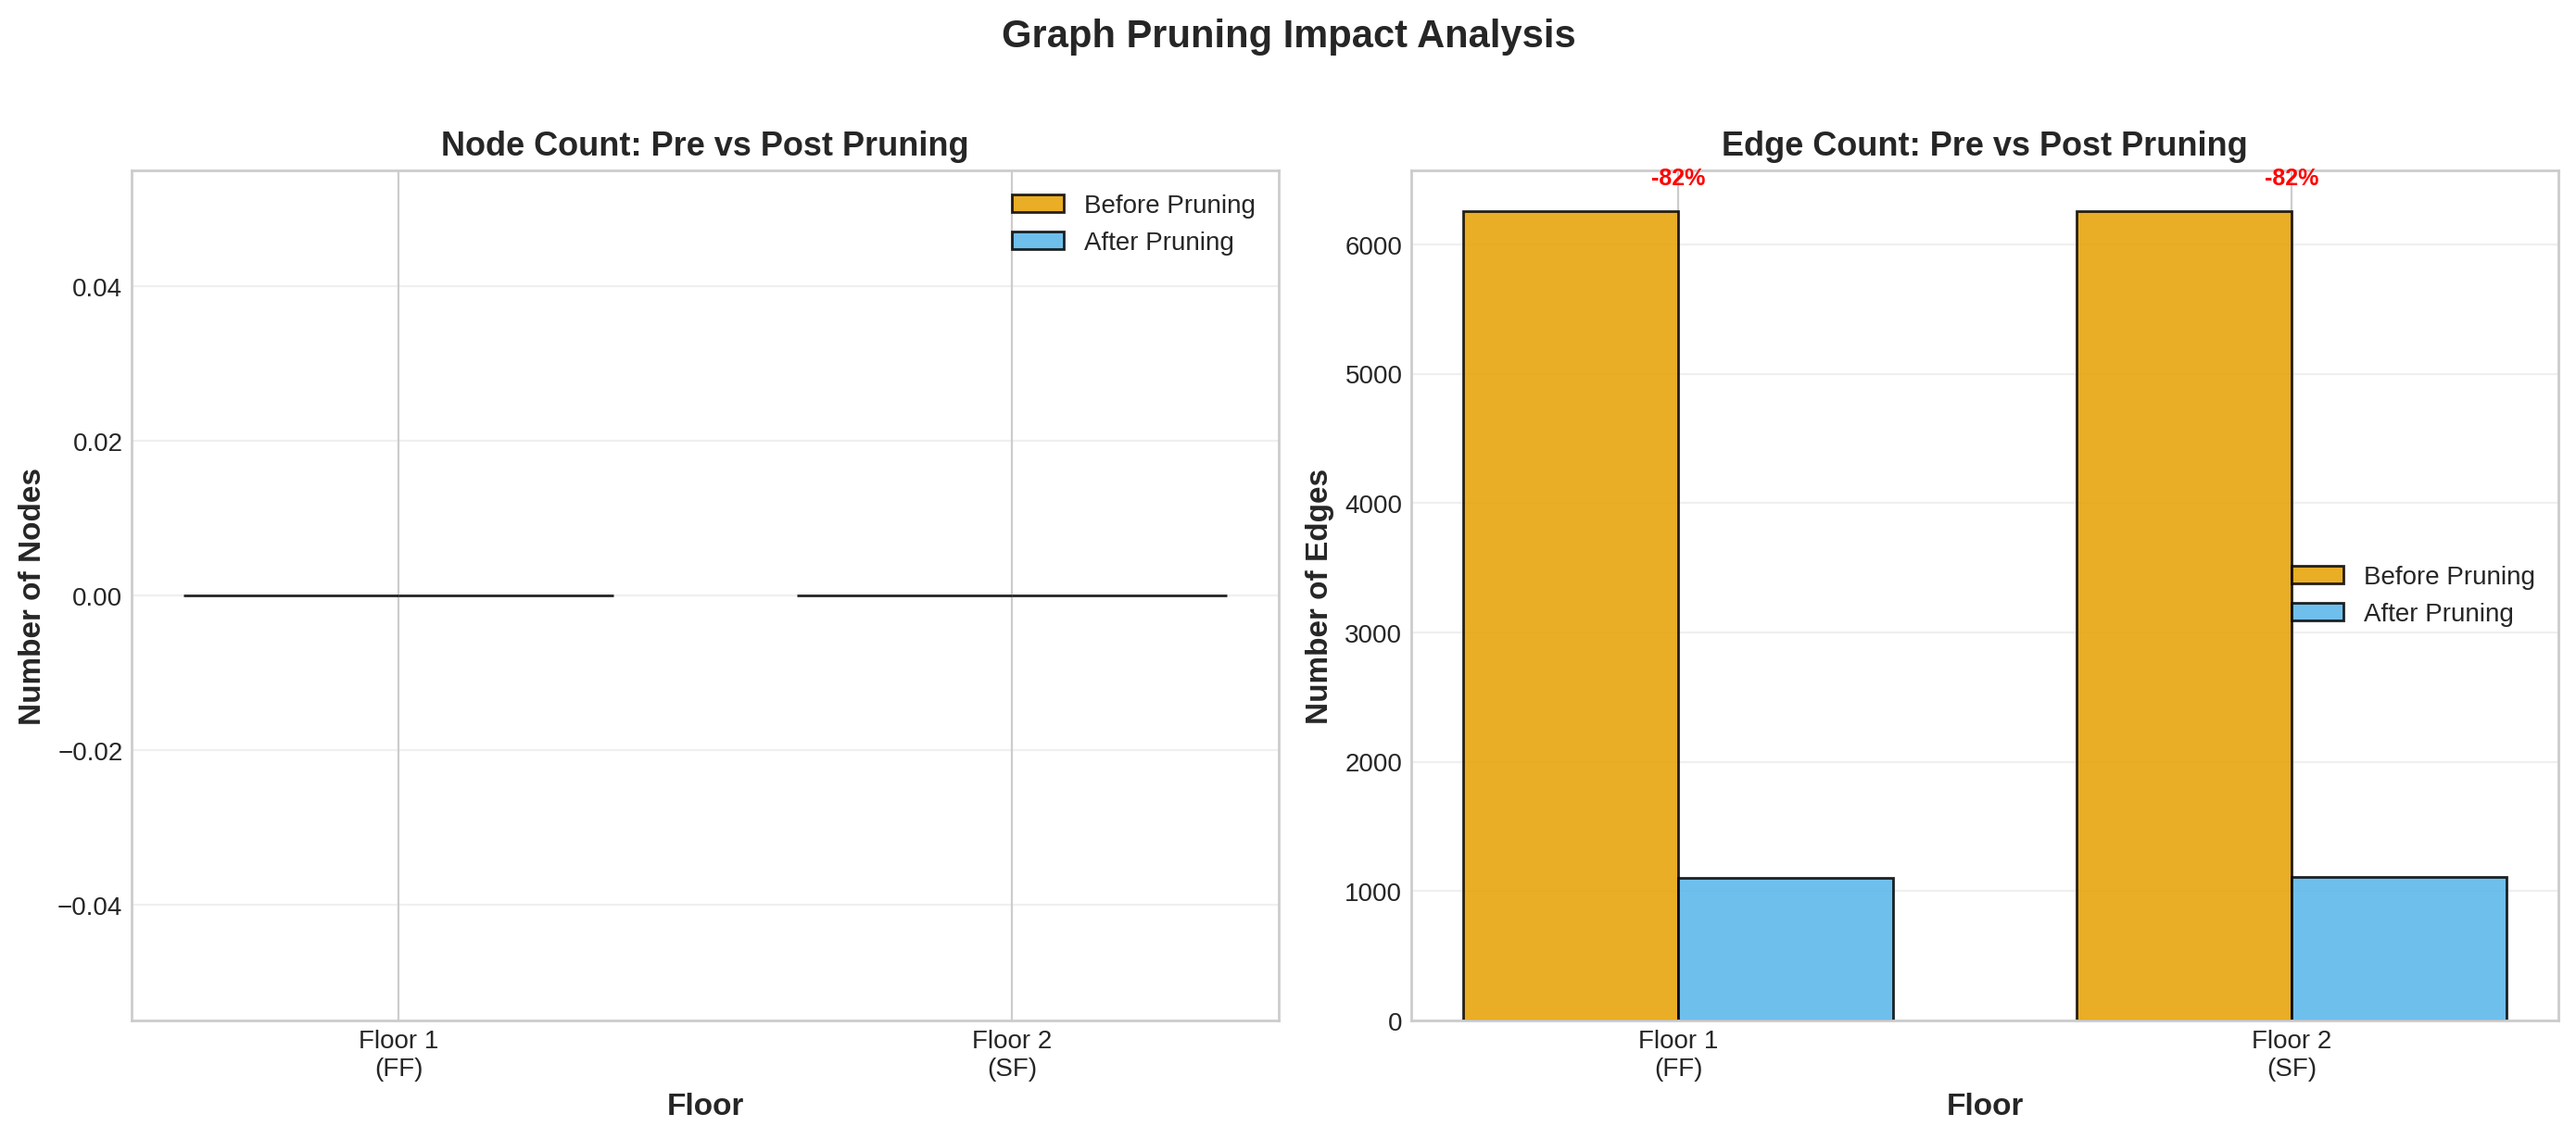
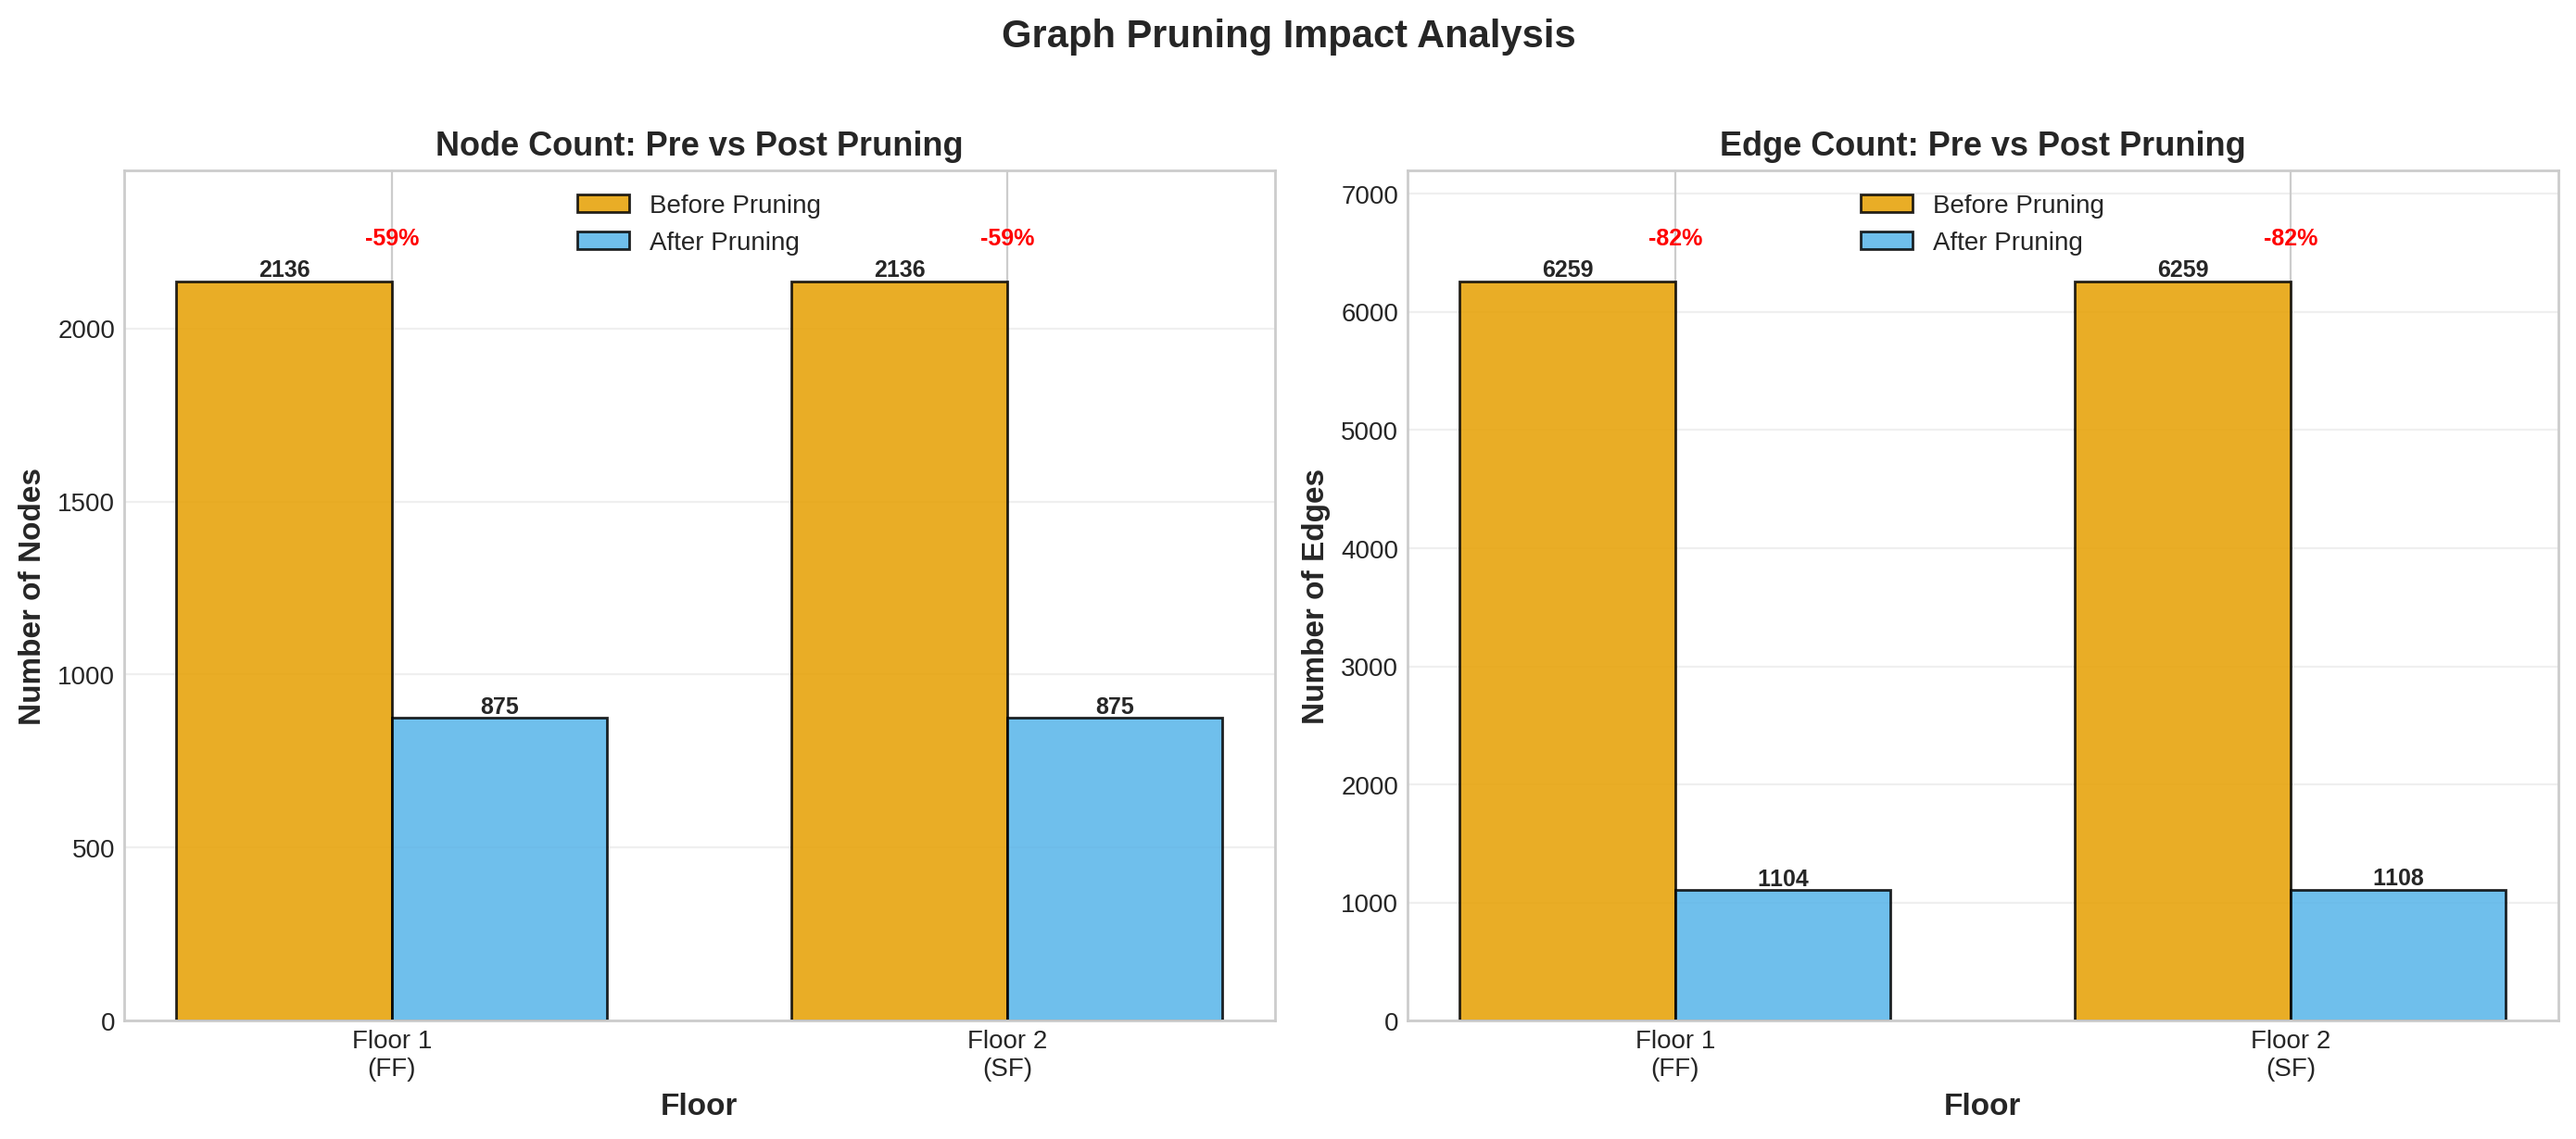
fix: Fix pruning comparison plot - node counts now visible
Issue: The parse_timer_file function only parsed lines with 'seconds',
missing node count lines like 'Total graph nodes (before pruning): 2136'

Fix:
- Updated parse_timer_file to parse ALL numeric values, not just timing
- Added fallback to load node/edge counts directly from JSON files
- Added value labels on bars for better visibility
- Added explicit y-axis limits to ensure bars are visible
- Added debug output to track data extraction

Result:
- pre_nodes: [2136, 2136] ✓
- post_nodes: [875, 875] ✓
- pre_edges: [6259, 6259] ✓
- post_edges: [1104, 1108] ✓

Bars are now visible with proper labels and reduction percentages.

diff --git a/MultiFloor.py b/MultiFloor.py
@@ -461,15 +461,36 @@ def parse_timer_file(timer_path):
     with open(timer_path, 'r') as f:
         for line in f:
             line = line.strip()
-            if ':' in line and 'seconds' in line.lower():
-                parts = line.split(':')
+            if not line or '=' in line:  # Skip separator lines
+                continue
+            
+            if ':' in line:
+                parts = line.split(':', 1)  # Split only on first colon
                 if len(parts) >= 2:
                     key = parts[0].strip()
-                    value_str = parts[1].strip().replace('seconds', '').strip()
-                    try:
-                        timing[key] = float(value_str)
-                    except ValueError:
-                        pass
+                    value_str = parts[1].strip()
+                    
+                    # Handle timing values (with "seconds")
+                    if 'seconds' in value_str.lower():
+                        try:
+                            timing[key] = float(value_str.replace('seconds', '').strip())
+                        except ValueError:
+                            pass
+                    # Handle node counts and other numeric values
+                    else:
+                        try:
+                            # Extract first number found
+                            import re
+                            match = re.search(r'(\d+(?:\.\d+)?)', value_str)
+                            if match:
+                                val = match.group(1)
+                                # Try int first, then float
+                                try:
+                                    timing[key] = int(val)
+                                except ValueError:
+                                    timing[key] = float(val)
+                        except:
+                            pass
     
     return timing
 
@@ -1323,39 +1344,88 @@ def plot_pre_post_pruning_comparison(graph_info, floor_image_map, output_path):
         info = graph_info.get(img, {})
         timer = info.get('timer', {})
         
+        # Debug: Check what we have
+        if not timer:
+            print(f"  ⚠ Warning: No timer data for {img}")
+        
+        # Try multiple key variations
+        pre_val = 0
+        post_val = 0
+        
+        # Check for node counts in timer
         if 'Total graph nodes (before pruning)' in timer:
-            pre_nodes.append(timer['Total graph nodes (before pruning)'])
-        else:
-            pre_nodes.append(0)
+            pre_val = timer['Total graph nodes (before pruning)']
+        elif 'Total graph nodes (before pruning)' in str(timer):
+            # Try to extract from string representation
+            import re
+            match = re.search(r'Total graph nodes \(before pruning\)[:\s]+(\d+)', str(timer))
+            if match:
+                pre_val = int(match.group(1))
         
         if 'Total graph nodes (after pruning)' in timer:
-            post_nodes.append(timer['Total graph nodes (after pruning)'])
-        else:
-            post_nodes.append(0)
+            post_val = timer['Total graph nodes (after pruning)']
+        elif 'Total graph nodes (after pruning)' in str(timer):
+            import re
+            match = re.search(r'Total graph nodes \(after pruning\)[:\s]+(\d+)', str(timer))
+            if match:
+                post_val = int(match.group(1))
+        
+        # If still zero, try loading from JSON files directly
+        if pre_val == 0 or post_val == 0:
+            paths = info.get('paths', {})
+            if paths.get('pre_pruning') and os.path.exists(paths['pre_pruning']):
+                try:
+                    with open(paths['pre_pruning']) as f:
+                        data = json.load(f)
+                    if pre_val == 0:
+                        pre_val = len(data.get('nodes', []))
+                except:
+                    pass
+            
+            if paths.get('post_pruning') and os.path.exists(paths['post_pruning']):
+                try:
+                    with open(paths['post_pruning']) as f:
+                        data = json.load(f)
+                    if post_val == 0:
+                        post_val = len(data.get('nodes', []))
+                except:
+                    pass
+        
+        pre_nodes.append(pre_val)
+        post_nodes.append(post_val)
         
         # Load pre/post graphs to get edge counts
         paths = info.get('paths', {})
-        if paths.get('pre_pruning'):
+        pre_edge_count = 0
+        post_edge_count = 0
+        
+        if paths.get('pre_pruning') and os.path.exists(paths['pre_pruning']):
             try:
                 with open(paths['pre_pruning']) as f:
                     data = json.load(f)
-                pre_edges.append(len(data.get('edges', [])))
-            except:
-                pre_edges.append(0)
-        else:
-            pre_edges.append(0)
+                pre_edge_count = len(data.get('edges', []))
+            except Exception as e:
+                print(f"  ⚠ Warning: Could not load pre_pruning edges for {img}: {e}")
         
-        if paths.get('post_pruning'):
+        if paths.get('post_pruning') and os.path.exists(paths['post_pruning']):
             try:
                 with open(paths['post_pruning']) as f:
                     data = json.load(f)
-                post_edges.append(len(data.get('edges', [])))
-            except:
-                post_edges.append(0)
-        else:
-            post_edges.append(0)
+                post_edge_count = len(data.get('edges', []))
+            except Exception as e:
+                print(f"  ⚠ Warning: Could not load post_pruning edges for {img}: {e}")
+        
+        pre_edges.append(pre_edge_count)
+        post_edges.append(post_edge_count)
         
         floor_labels.append(f'Floor {floor_num}\n({get_floor_display_name(floor_num)})')
+    
+    # Debug output
+    print(f"  Pruning comparison data:")
+    print(f"    pre_nodes: {pre_nodes}")
+    print(f"    post_nodes: {post_nodes}")
+    print(f"    pre_edges: {pre_edges}")
+    print(f"    post_edges: {post_edges}")
     
     # Create figure with 2 subplots
     fig, (ax1, ax2) = plt.subplots(1, 2, figsize=(14, 6))
@@ -1364,10 +1434,23 @@ def plot_pre_post_pruning_comparison(graph_info, floor_image_map, output_path):
     width = 0.35
     
     # Nodes comparison
-    bars1 = ax1.bar(x - width/2, pre_nodes, width, label='Before Pruning', 
-                    color=ACADEMIC_COLORS['floor_1'], alpha=0.85, edgecolor='black')
-    bars2 = ax1.bar(x + width/2, post_nodes, width, label='After Pruning',
-                    color=ACADEMIC_COLORS['floor_2'], alpha=0.85, edgecolor='black')
+    if not pre_nodes or all(v == 0 for v in pre_nodes):
+        print(f"  ⚠ Warning: All pre_nodes are zero, cannot plot node comparison")
+        ax1.text(0.5, 0.5, 'No node data available', ha='center', va='center', 
+                transform=ax1.transAxes, fontsize=14)
+    else:
+        bars1 = ax1.bar(x - width/2, pre_nodes, width, label='Before Pruning', 
+                        color=ACADEMIC_COLORS['floor_1'], alpha=0.85, edgecolor='black', linewidth=1)
+        bars2 = ax1.bar(x + width/2, post_nodes, width, label='After Pruning',
+                        color=ACADEMIC_COLORS['floor_2'], alpha=0.85, edgecolor='black', linewidth=1)
+        
+        # Add value labels on bars
+        for bars in [bars1, bars2]:
+            for bar in bars:
+                height = bar.get_height()
+                if height > 0:
+                    ax1.text(bar.get_x() + bar.get_width()/2, height,
+                            f'{int(height)}', ha='center', va='bottom', fontsize=9, fontweight='bold')
     
     ax1.set_xlabel('Floor', fontsize=12, fontweight='bold')
     ax1.set_ylabel('Number of Nodes', fontsize=12, fontweight='bold')
@@ -1377,18 +1460,37 @@ def plot_pre_post_pruning_comparison(graph_info, floor_image_map, output_path):
     ax1.legend(fontsize=10)
     ax1.grid(axis='y', alpha=0.3)
     
+    # Set y-axis to show all data
+    if pre_nodes or post_nodes:
+        max_val = max(max(pre_nodes) if pre_nodes else 0, max(post_nodes) if post_nodes else 0)
+        ax1.set_ylim(0, max_val * 1.15)
+    
     # Add reduction percentage
     for i, (pre, post) in enumerate(zip(pre_nodes, post_nodes)):
         if pre > 0:
             reduction = (pre - post) / pre * 100
-            ax1.text(i, max(pre, post) + 50, f'-{reduction:.0f}%', 
+            max_height = max(pre, post)
+            ax1.text(i, max_height + max_height * 0.05, f'-{reduction:.0f}%', 
                     ha='center', fontsize=9, color='red', fontweight='bold')
     
     # Edges comparison
-    bars3 = ax2.bar(x - width/2, pre_edges, width, label='Before Pruning',
-                    color=ACADEMIC_COLORS['floor_1'], alpha=0.85, edgecolor='black')
-    bars4 = ax2.bar(x + width/2, post_edges, width, label='After Pruning',
-                    color=ACADEMIC_COLORS['floor_2'], alpha=0.85, edgecolor='black')
+    if not pre_edges or all(v == 0 for v in pre_edges):
+        print(f"  ⚠ Warning: All pre_edges are zero, cannot plot edge comparison")
+        ax2.text(0.5, 0.5, 'No edge data available', ha='center', va='center', 
+                transform=ax2.transAxes, fontsize=14)
+    else:
+        bars3 = ax2.bar(x - width/2, pre_edges, width, label='Before Pruning',
+                        color=ACADEMIC_COLORS['floor_1'], alpha=0.85, edgecolor='black', linewidth=1)
+        bars4 = ax2.bar(x + width/2, post_edges, width, label='After Pruning',
+                        color=ACADEMIC_COLORS['floor_2'], alpha=0.85, edgecolor='black', linewidth=1)
+        
+        # Add value labels on bars
+        for bars in [bars3, bars4]:
+            for bar in bars:
+                height = bar.get_height()
+                if height > 0:
+                    ax2.text(bar.get_x() + bar.get_width()/2, height,
+                            f'{int(height)}', ha='center', va='bottom', fontsize=9, fontweight='bold')
     
     ax2.set_xlabel('Floor', fontsize=12, fontweight='bold')
     ax2.set_ylabel('Number of Edges', fontsize=12, fontweight='bold')
@@ -1398,11 +1500,17 @@ def plot_pre_post_pruning_comparison(graph_info, floor_image_map, output_path):
     ax2.legend(fontsize=10)
     ax2.grid(axis='y', alpha=0.3)
     
+    # Set y-axis to show all data
+    if pre_edges or post_edges:
+        max_val = max(max(pre_edges) if pre_edges else 0, max(post_edges) if post_edges else 0)
+        ax2.set_ylim(0, max_val * 1.15)
+    
     # Add reduction percentage
     for i, (pre, post) in enumerate(zip(pre_edges, post_edges)):
         if pre > 0:
             reduction = (pre - post) / pre * 100
-            ax2.text(i, max(pre, post) + 200, f'-{reduction:.0f}%',
+            max_height = max(pre, post)
+            ax2.text(i, max_height + max_height * 0.05, f'-{reduction:.0f}%',
                     ha='center', fontsize=9, color='red', fontweight='bold')
     
     plt.suptitle('Graph Pruning Impact Analysis', fontsize=15, fontweight='bold', y=1.02)
